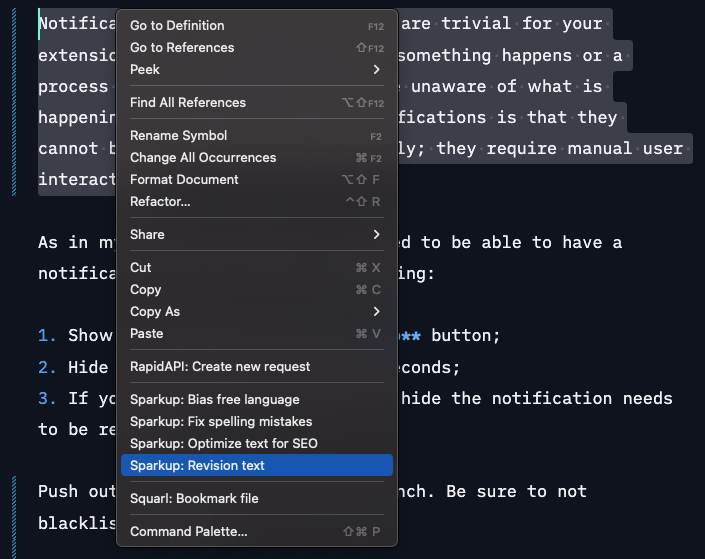
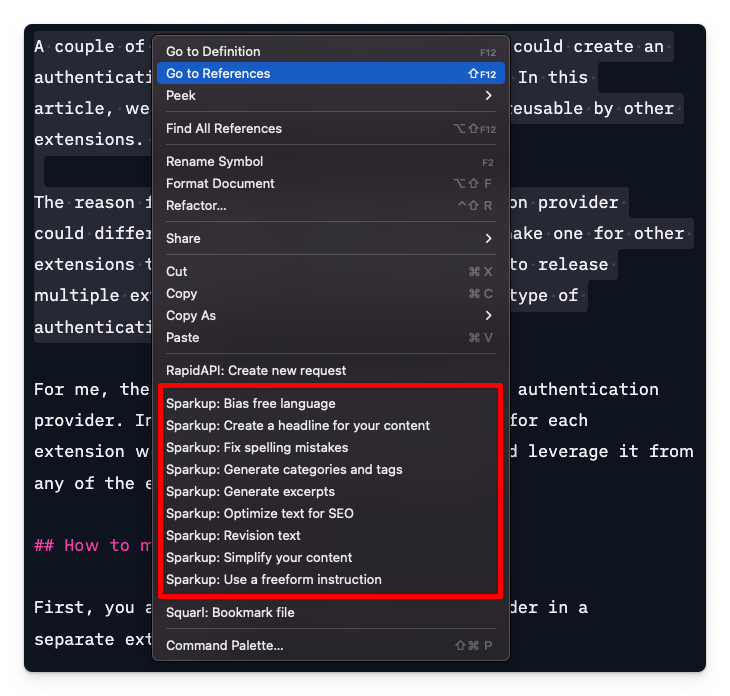
Freeform option + excerpt

diff --git a/src/commands/Freeform.ts b/src/commands/Freeform.ts
@@ -1,0 +1,75 @@
+import { ProgressLocation, Uri, window, workspace } from "vscode";
+import { FreeformInstruction } from "../models";
+import { SparkupContentProvider } from "../provider";
+import { AiService } from "../service";
+import { createDocument, getSelectedText } from "../utils";
+
+
+export class Freeform {
+
+  public static async freeform() {
+    const config = workspace.getConfiguration("sparkup");
+    const instructions = config.get<FreeformInstruction[]>("freeform.instructions");
+
+    if (!instructions || instructions.length === 0) {
+      window.showErrorMessage("Sparkup: Please set your freeform instructions in the settings.");
+      return;
+    }
+
+    const selected = await window.showQuickPick(instructions.map(i => i.title), {
+      title: "Select the instruction you want to use",
+      placeHolder: "Select an instruction...",
+    });
+
+    if (!selected) {
+      return;
+    }
+
+    let instruction = instructions.find(i => i.title === selected);
+    if (!instruction || !instruction.instruction) {
+      window.showErrorMessage("Sparkup: Your instruction is not configured correctly.");
+      return;
+    }
+
+    const selectionText = getSelectedText();
+    if (!selectionText) {
+      window.showErrorMessage("Sparkup: Please select some text first.");
+      return;
+    }
+
+    window.withProgress({
+      location: ProgressLocation.Notification,
+      cancellable: false,
+      title: "Sparkup ✨: Processing..."
+    }, async (progress, token) => {
+      const result = await AiService.call("freeform", selectionText, instruction?.instruction, undefined, instruction?.nrOfResults);
+
+      if (!result) {
+        window.showErrorMessage("Something went wrong. Please try again.");
+        return;
+      }
+      
+      // Remove start and end quotes
+      const values = result || [];
+      if (values && values.length > 0) {
+
+        const uri = Uri.parse(`${SparkupContentProvider.scheme}:Sparkup ✨ - ${instruction?.title}`);
+
+        const content = `# Sparkup - ${instruction?.title}
+${values.map((value: string, idx: number) => `
+## Result ${idx + 1}
+
+${value}
+`).join('')}`;
+
+        const language = window.activeTextEditor?.document.languageId || 'markdown';
+
+        await createDocument(uri, language, content);
+      } else {
+        window.showWarningMessage(`Sparkup ✨: Sorry, something went wrong. Please try again.`);
+      }
+
+      return;
+    });
+  }
+}

diff --git a/src/extension.ts b/src/extension.ts
@@ -1,7 +1,8 @@
+import { Freeform } from './commands/Freeform';
 import { Metadata } from './commands/Metadata';
 import { RevisionText } from './commands/RevisionText';
 import * as vscode from 'vscode';
-import { Headline, SeoOptimization, TextEdits } from './commands';
+import { Excerpts, Headline, SeoOptimization, TextEdits } from './commands';
 import { SparkupContentProvider } from './provider';
 
 
@@ -10,10 +11,25 @@ export function activate(context: vscode.ExtensionContext) {
 
 	new SparkupContentProvider(context).init();
 
+	/**
+	 * Headlines
+	 */
 	context.subscriptions.push(
 		vscode.commands.registerCommand('vscode-sparkup.headline', Headline.generate)
 	);
 
+
+	/**
+	 * Excerpts
+	 */
+	context.subscriptions.push(
+		vscode.commands.registerCommand('vscode-sparkup.excerpts', Excerpts.process)
+	);
+
+
+	/**
+	 * Text Edits
+	 */
 	context.subscriptions.push(
 		vscode.commands.registerCommand('vscode-sparkup.fixSpelling', TextEdits.fixSpelling)
 	);
@@ -26,18 +42,34 @@ export function activate(context: vscode.ExtensionContext) {
 		vscode.commands.registerCommand('vscode-sparkup.simplify', TextEdits.simplify)
 	);
 
+
+	/**
+	 * Freeform
+	 */
 	context.subscriptions.push(
-		vscode.commands.registerCommand('vscode-sparkup.freeform', TextEdits.freeform)
+		vscode.commands.registerCommand('vscode-sparkup.freeform', Freeform.freeform)
 	);
 
-	context.subscriptions.push(
-		vscode.commands.registerCommand('vscode-sparkup.seoOptimize', SeoOptimization.optimize)
-	);
 
+	/**
+	 * Revision Text
+	 */
 	context.subscriptions.push(
 		vscode.commands.registerCommand('vscode-sparkup.revisionText', RevisionText.revision)
 	);
 
+
+	/**
+	 * SEO Optimization
+	 */
+	context.subscriptions.push(
+		vscode.commands.registerCommand('vscode-sparkup.seoOptimize', SeoOptimization.optimize)
+	);
+
+
+	/**
+	 * Categorization
+	 */
 	context.subscriptions.push(
 		vscode.commands.registerCommand('vscode-sparkup.categorizeAndTag', Metadata.process)
 	);

diff --git a/src/commands/Excerpts.ts b/src/commands/Excerpts.ts
@@ -1,0 +1,55 @@
+import { ProgressLocation, Uri, window } from "vscode";
+import { SparkupContentProvider } from "../provider";
+import { AiService } from "../service";
+import { createDocument, getSelectedText } from "../utils";
+
+
+export class Excerpts {
+
+  public static process() {
+    const selectionText = getSelectedText();
+    if (!selectionText) {
+      return;
+    }
+
+    if (selectionText.length < 0 || selectionText.length > 1000) {
+      window.showErrorMessage("Please select a text between 1 and 1000 characters.");
+      return;
+    }
+
+    window.withProgress({
+      location: ProgressLocation.Notification,
+      cancellable: false,
+      title: "Sparkup ✨: Processing..."
+    }, async (progress, token) => {
+      const result = await AiService.call("excerpts", selectionText, undefined, undefined);
+
+      if (!result) {
+        window.showErrorMessage("Something went wrong. Please try again.");
+        return;
+      }
+      
+      // Remove start and end quotes
+      const values = result || [];
+      if (values && values.length > 0) {
+
+        const uri = Uri.parse(`${SparkupContentProvider.scheme}:Sparkup ✨ - Excerpts`);
+
+        const content = `# Sparkup - Excerpts
+${values.map((value: string, idx: number) => `
+## Excerpt ${idx + 1}
+
+${value}
+`).join('')}`;
+
+        const language = window.activeTextEditor?.document.languageId || 'markdown';
+
+        await createDocument(uri, language, content);
+      } else {
+        window.showWarningMessage("Sparkup ✨: We couldn't generate a headline for you. Please try again.");
+      }
+
+      return;
+    });
+  }
+}

diff --git a/src/service/AiService.ts b/src/service/AiService.ts
@@ -10,13 +10,15 @@ enum Endpoint {
   seo = "seo",
   headline = "headline",
   categorization = "categorization",
+  excerpts = "excerpt",
+  freeform = "freeform",
 }
 
-export type IntentType = "spelling" | "biasfree" | "freeform" | "revision" | "seo" | "headline" | "simplify" | "categorization";
+export type IntentType = "spelling" | "biasfree" | "freeform" | "revision" | "seo" | "headline" | "simplify" | "categorization" | "excerpts";
 
 export class AiService {
   
-  public static async call(intent: IntentType, input: string, instruction?: string, keywords?: string) {
+  public static async call(intent: IntentType, input: string, instruction?: string, keywords?: string, nrOfResults: number = 3): Promise<any> {
     let endpoint = Endpoint.revision;
     let body: any = {};
 
@@ -43,6 +45,18 @@ export class AiService {
       endpoint = Endpoint.categorization;
       body = {
         input
+      };
+    } else if (intent === "excerpts") {
+      endpoint = Endpoint.excerpts;
+      body = {
+        input
+      };
+    } else if (intent === "freeform") {
+      endpoint = Endpoint.freeform;
+      body = {
+        input,
+        instruction,
+        nrOfResults
       };
     } else {
       body = {

diff --git a/src/commands/TextEdits.ts b/src/commands/TextEdits.ts
@@ -17,19 +17,6 @@ export class TextEdits {
     await TextEdits.edit("simplify")
   }
 
-  public static async freeform() {
-    const answer = await window.showInputBox({
-      prompt: "How do you want us to edit your text?",
-      placeHolder: "Pass us your instruction here...",
-    });
-
-    if (!answer) {
-      return;
-    }
-
-    await TextEdits.edit("freeform", answer)
-  }
-
   public static async edit(type: IntentType, instruction?: string) {
     const selectionText = getSelectedText();
     if (!selectionText) {

diff --git a/src/commands/index.ts b/src/commands/index.ts
@@ -1,3 +1,5 @@
+export * from './Excerpts';
+export * from './Freeform';
 export * from './Headline';
 export * from './Metadata';
 export * from './RevisionText';

diff --git a/src/models/FreeformInstruction.ts b/src/models/FreeformInstruction.ts
@@ -1,0 +1,5 @@
+export interface FreeformInstruction {
+  title: string;
+  instruction: string;
+  nrOfResults: number;
+}

diff --git a/src/models/index.ts b/src/models/index.ts
@@ -1,0 +1,1 @@
+export * from './FreeformInstruction';

diff --git a/README.md b/README.md
@@ -8,13 +8,15 @@ Are you tired of juggling multiple programs just to rewrite your content? Introd
 
 With Sparkup, you can elevate your content to new heights by harnessing the power of AI with the following features:
 
-- Customize your text for a specific audience and purpose
+- Revision your text for a specific audience and purpose
 - Ensure accuracy with spellchecks
-- Use inclusive language
+- Use inclusive language (bias-free)
 - Optimize for search engine ranking with SEO
 - Simplify your content
+- Write excerpts for your content
 - Automatically generate headlines based on the content
-- Categorize and tag your content for better organization.
+- Categorize and tag your content for better organization
+- Provide your own instructions to generate content.
 
 ## What data gets passed to Sparkup?
 
@@ -33,6 +35,36 @@ If you want more information about how to set up Sparkup, you can follow the API
 
 <p align="center">
   <img src="./assets/sparkup-options.png" alt="Sparkup actions" />
+</p>
+
+## Freeform or custom instructions
+
+The Sparkup API allows for the generation of custom content by providing your own instructions. This feature can be utilized by specifying your instructions in the `sparkup.freeform.instructions` setting in Visual Studio Code. The setting is an array of objects, each with the properties of a title, instruction, and an optional number of results (defaulting to **3** with a maximum of 5) that will be sent to the Sparkup API and used to generate the content. The title will be displayed when selecting the instruction.
+
+The instructions object has the following properties:
+
+- **title**: The title of the instruction. This will be shown when you select the instruction.
+- **instruction**: The instruction that will be sent to the Sparkup API and will be used to generate the content.
+- **nrOfResults**: The number of results that you want to receive from the Sparkup API. This is optional and defaults to 3 with a maximum of 5.
+
+### Example configuration
+
+```json
+"sparkup.freeform.instructions": [
+  {
+    "title": "Generate a blog description",
+    "instruction": "Generate an single paragraph description/excerpt for the following text.\n\nExample 1: In this article, Elio explains how you can create a reusable authentication provider extension that you can leverage in all your extensions.\n\nExample 2: In this article, Elio explains how you can simplify the communication flow from your Visual Studio Code extension and its webview to wait for its response.",
+    "nrOfResults": 2
+  }
+]
+```
+
+### Usage
+
+You can make use of your freeform instructions by executing the `Sparkup: Use a freeform instruction` (`vscode-sparkup.freeform`) command. Once you run the command, it will show a list of all your instructions. Select the one you want to use and it will generate the content based on the instruction.
+
+<p align="center">
+  <img src="./assets/sparkup-freeform-selection.png" alt="Sparkup freeform selection" />
 </p>
 
 ## Issues / Feedback

diff --git a/CHANGELOG.md b/CHANGELOG.md
@@ -2,6 +2,11 @@
 
 ## Beta versions
 
+### [0.0.7] - 2023-01-18
+
+- Added support for generating excerpts
+- Added support for freeform instructions. This allows you to configure instructions in your VS Code settings and use the Sparkup API to generate content based on those instructions. Check the README for more information.
+
 ### [0.0.6] - 2023-01-16
 
 - Output channel for logging
